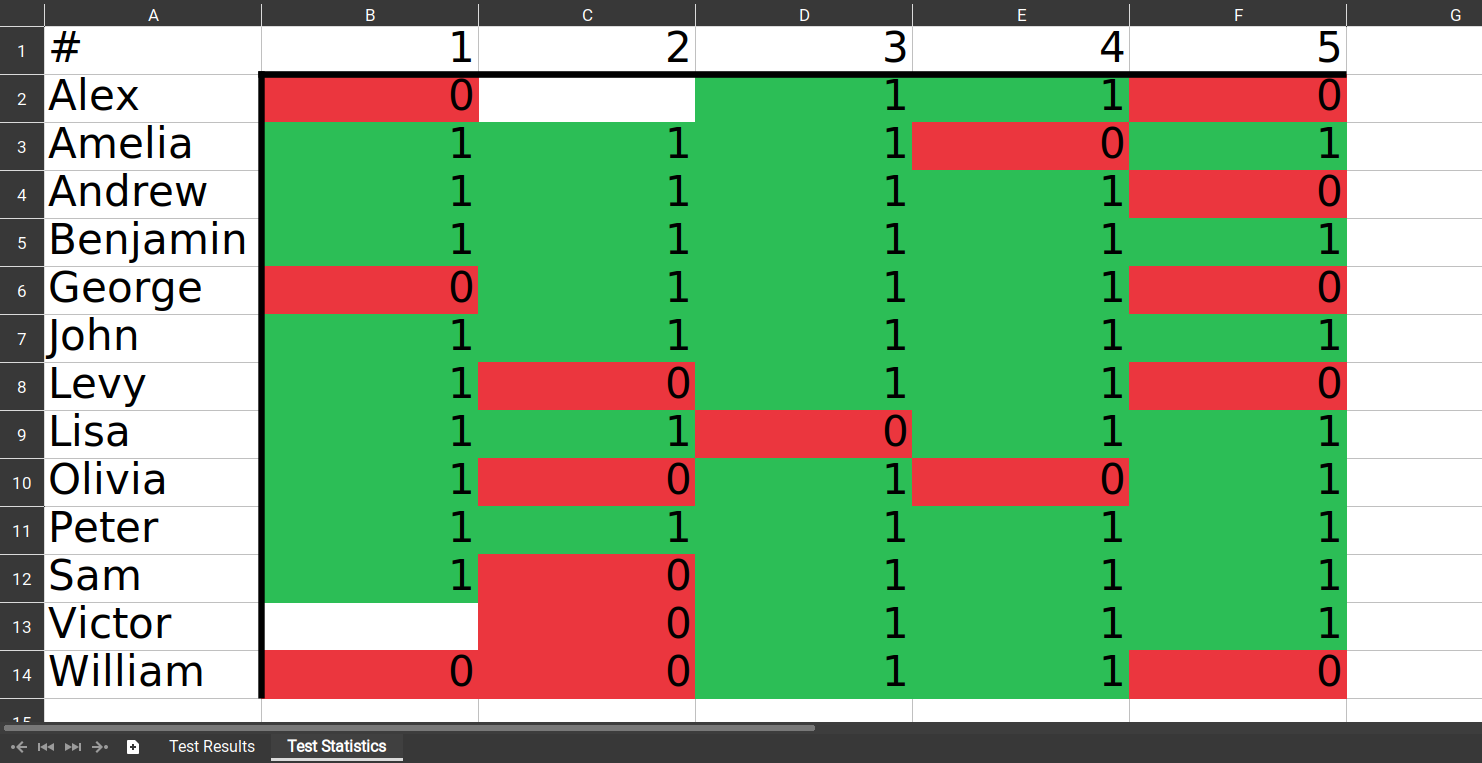
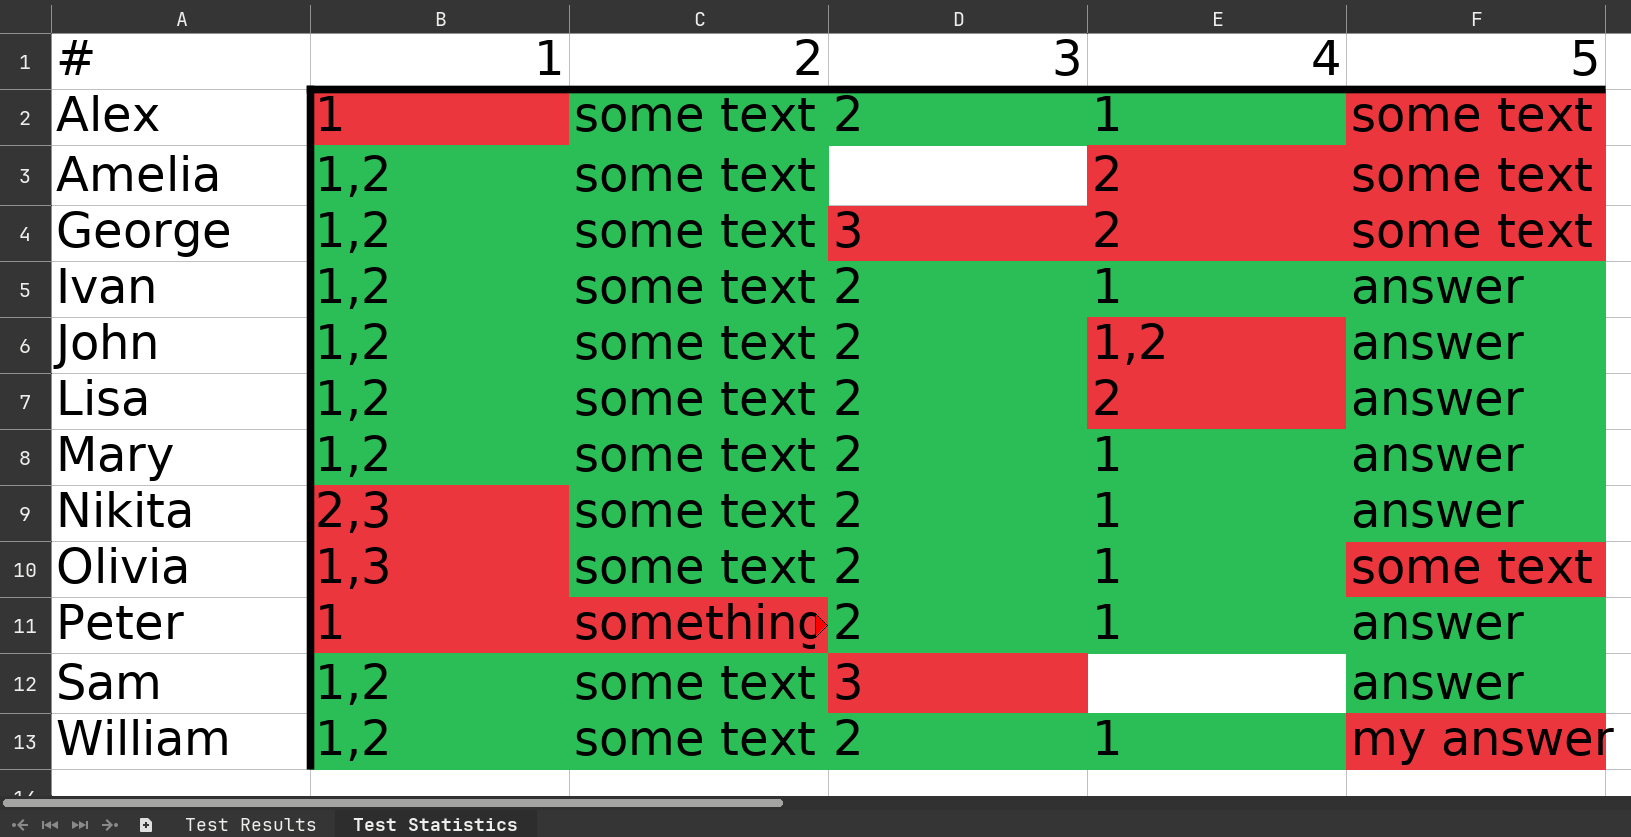
docs(statistics): update excel page
Update Excel statistics documentation page due to the changes in the
program

diff --git a/website/docs/statistics/excel.md b/website/docs/statistics/excel.md
@@ -20,8 +20,9 @@ On the statistics page, there is a table displaying the correctness of tasks per
 
 ![Excel test statistics example](./img/excel-stats.png)
 
--   Green cells represent a correct answer, marked with the value of 1.
--   Red cells represent an incorrect answer, marked the value of 0.
+-   Each cell contains an answer submitted by this student.
+-   Green cells represent a correct answer.
+-   Red cells represent an incorrect answer.
 -   If the cell is empty, student didn't submit answer for this task.
 
 :::tip
